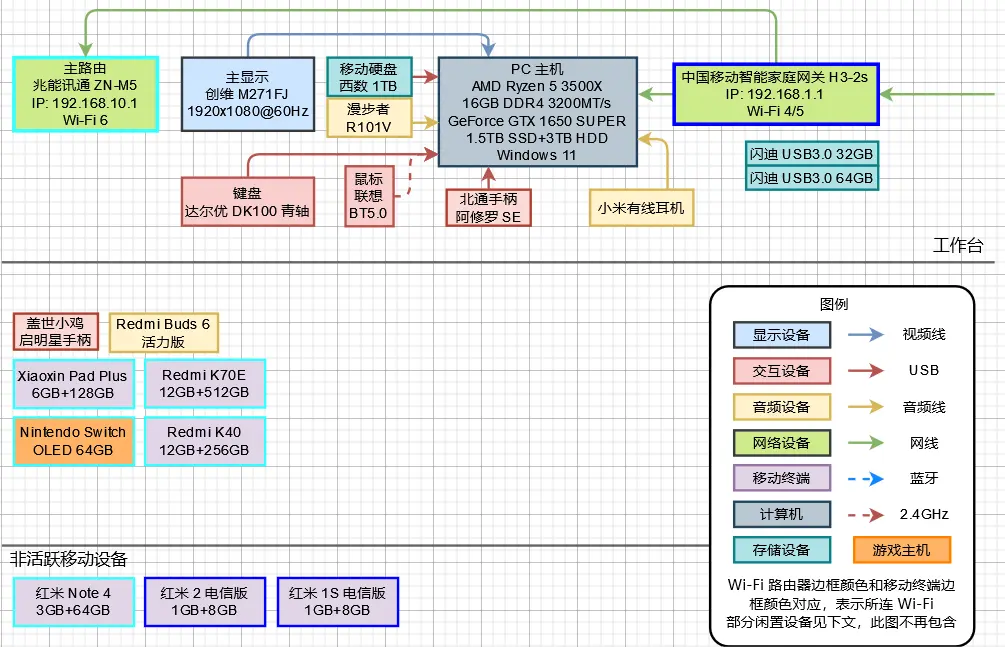
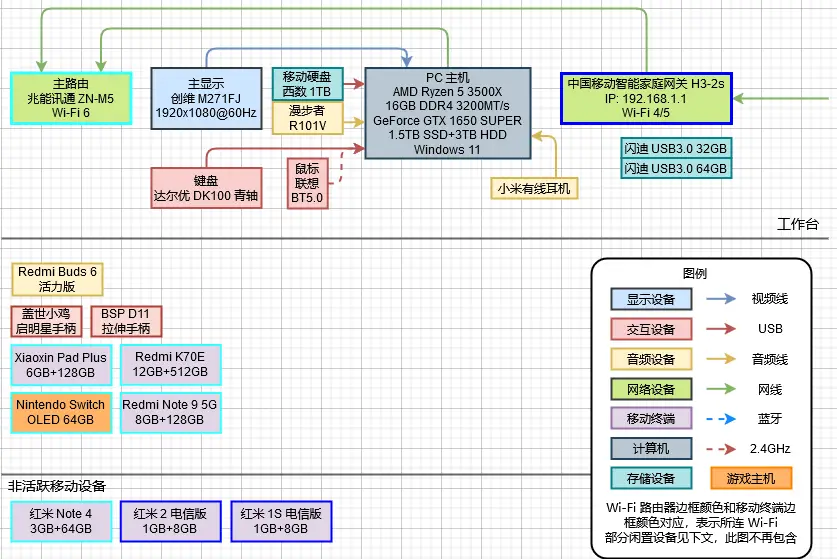
Update

diff --git a/source/_posts/2022-01-27-my-devices.md b/source/_posts/2022-01-27-my-devices.md
@@ -3,8 +3,8 @@ title: "我的电子设备们"
 top_img: false
 ---
 
-- **本文最后更新**：2024-11-15
-- **设备布线图最后更新**：2024-09-29
+- **本文最后更新**：2024-12-18
+- **设备布线图最后更新**：2024-12-18
 
 <img src="/img/in-post/device-map.webp" />
 
@@ -68,8 +68,18 @@ top_img: false
 - **屏幕**: 6.67" AMOLED (2712x1220)
 - **OS**: Android 15 (Xiaomi HyperOS 2.0)
 
-### Redmi K40
+### Redmi Note 9 5G
 - **状态**: 备用机
+- **购买时间**: 2022-01
+- **SoC**: Mediatek 天玑 800U
+- **GPU**: Arm Mali-G57 MC3
+- **RAM**: 8GB LPDDR4x
+- **ROM**: 128GB UFS 2.2
+- **屏幕**: 6.53" LCD (2340x1080)
+- **OS**: Android 12 (MIUI 14)
+
+### Redmi K40
+- **状态**: 他人使用
 - **购买时间**: 2021-06-08
 - **SoC**: 高通骁龙 870
 - **GPU**: Adreno 650
@@ -292,18 +302,17 @@ top_img: false
 - **SoC**: NVIDIA Tegra X1
 - **ROM**: 64GB
 - **屏幕**: 7" OLED (1280x720)
+- **备注**: 安装了 128GB 的 SD 卡
 
 ### 手柄/控制器
 - `盖世小鸡 启明星 游戏手柄`
 - `北通阿修罗 SE`
 - `BSP D11 拉伸手柄`
 
-### COOLBABY RS-99 俄罗斯方块机
-
 ## 音频设备
 - `Redmi Buds 6 活力版`
 - `小米有线耳机`
-- ~~`Xiaomi 双磁超动态单元耳机`~~
+- ~~`Xiaomi 双磁超动态单元耳机`~~: 给我妈了
 - `小米随身蓝牙音箱`
 
 ## 充电设备（单独购买的）

diff --git a/source/_posts/2024-03-06-opinion-new-phone-for-mom.md b/source/_posts/2024-03-06-opinion-new-phone-for-mom.md
@@ -3,6 +3,12 @@ title: "给老妈挑选新手机时做的一点笔记"
 top_img: false
 ---
 
+> **（2024-12-18 更新）**几天前（上周四）我又把 K40 给她了，并且完成了换机，本文正式完结。
+>
+> ~~（2024-07-24 更新）我妈嫌我那部 K40 发热比较严重，没怎么用，所以我又把它拿回来了。~~
+>
+> ~~（2024-07-18 更新）把我原来的 K40 给我妈了，本文完结。~~
+
 昨天我发了一条酷安动态，里面提到我妈直播时需要用到一部不带 3.5mm 耳机孔的手机，以及她想换一部新手机。
 
 <img width="480" src="/img/in-post/coolapk_20240305.webp" />
